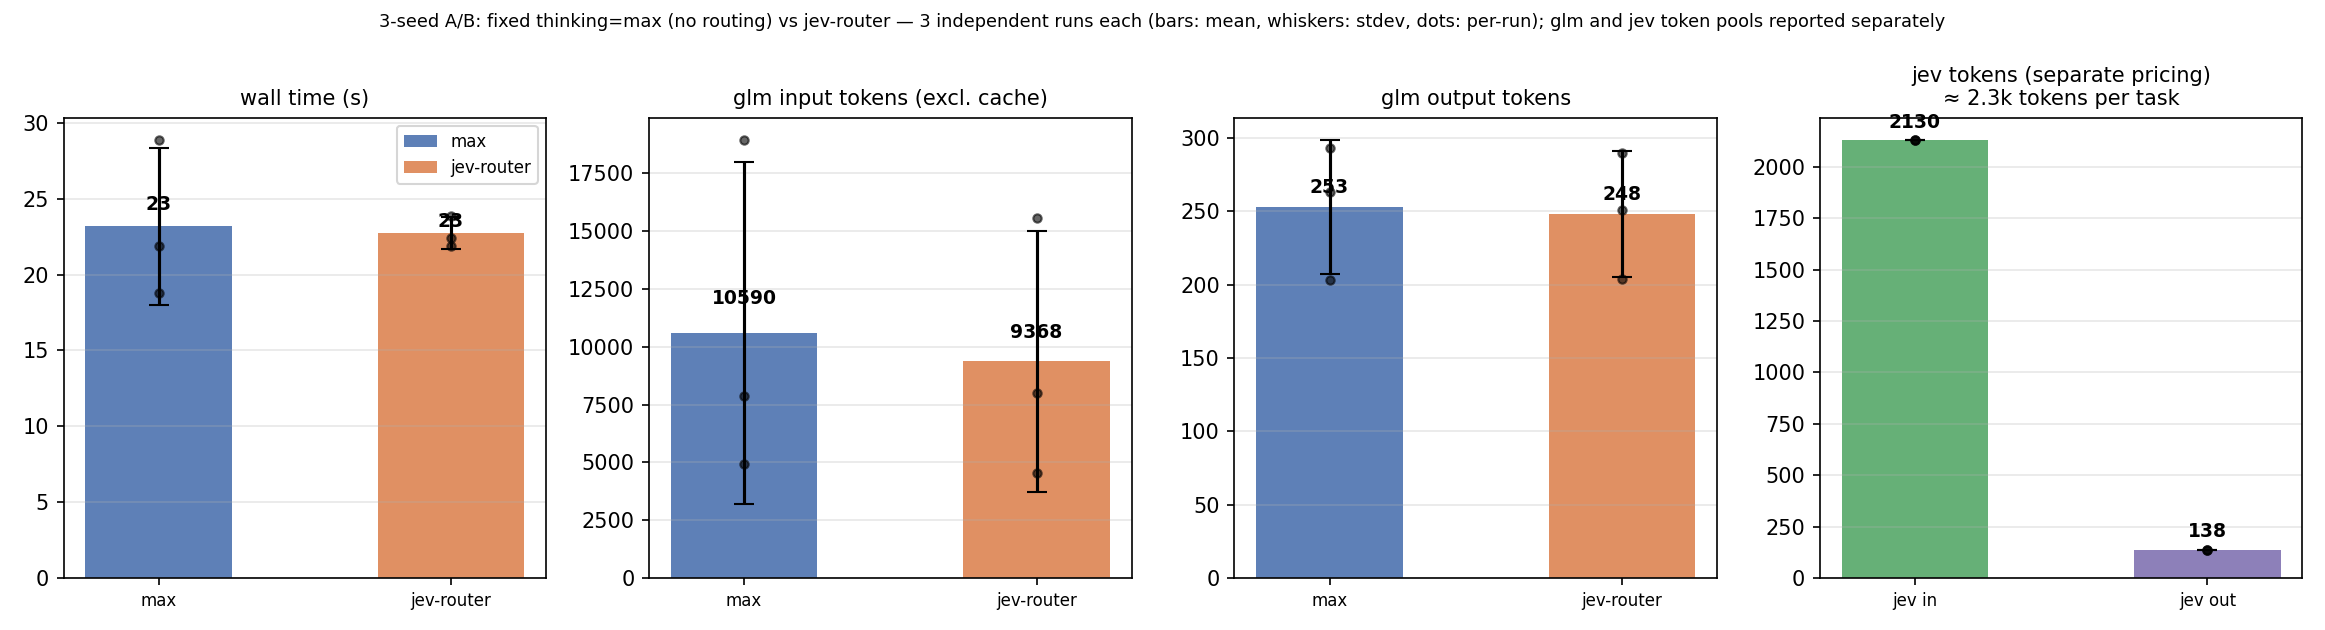
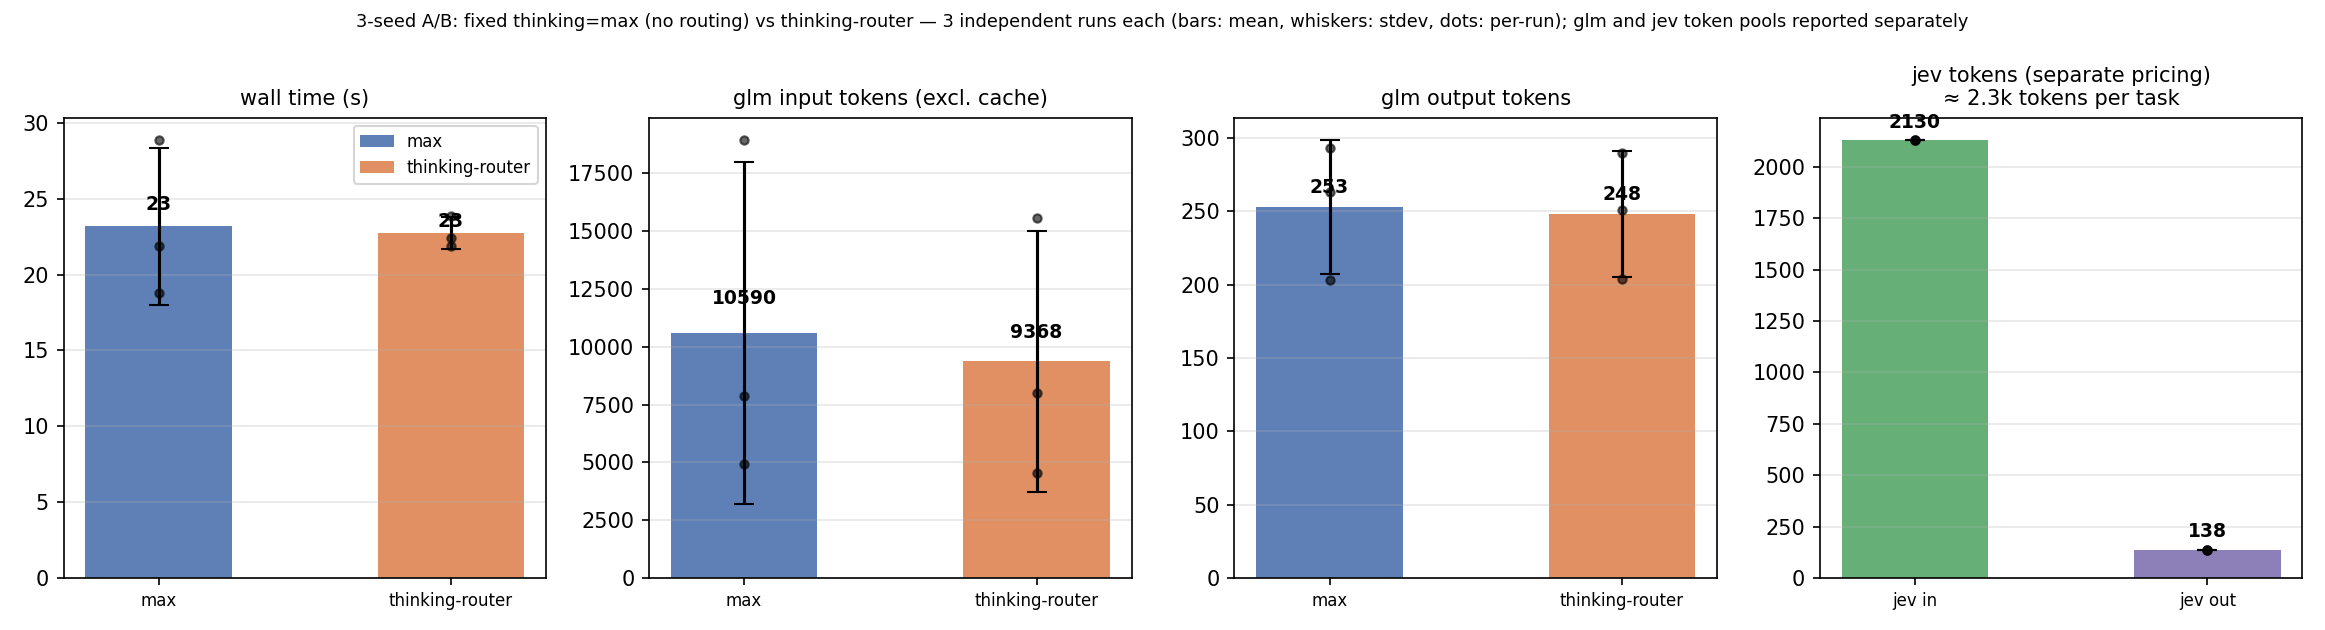
chore: rename slash command to /thinking-router; unify user-facing labels

diff --git a/index.ts b/index.ts
@@ -27,7 +27,7 @@ import { JsonlLogger } from "./src/logger.ts";
 import type { RawToolResult } from "./src/errors.ts";
 import type { RoutedLevel } from "./src/levels.ts";
 
-const COMMAND = "jev-router";
+const COMMAND = "thinking-router";
 
 interface PendingInput {
   command?: string;
@@ -109,13 +109,13 @@ export default function jevRouter(pi: ExtensionAPI) {
     let timer: ReturnType<typeof setTimeout> | undefined;
     const cap = new Promise<void>((resolve) => {
       timer = setTimeout(() => {
-        const msg = `jev-router: ${label} exceeded ${Math.round(ms / 1000)}s — skipped wait so the session can continue`;
+        const msg = `thinking-router: ${label} exceeded ${Math.round(ms / 1000)}s — skipped wait so the session can continue`;
         try {
           currentCtx?.ui.notify(msg, "warning");
         } catch {
           // UI unavailable (print mode).
         }
-        console.error(`[jev-router] ${msg}`);
+        console.error(`[thinking-router] ${msg}`);
         resolve();
       }, ms);
     });
@@ -213,7 +213,7 @@ export default function jevRouter(pi: ExtensionAPI) {
 
   pi.registerCommand(COMMAND, {
     description:
-      "Toggle adaptive thinking-level routing (/jev-router on|off|status|test|set|log)",
+      "Toggle adaptive thinking-level routing (/thinking-router on|off|status|test|set|log)",
     getArgumentCompletions: (prefix: string) => {
       const items = [
         ...SUBS.map((s) => ({ value: s, label: s })),
@@ -224,7 +224,7 @@ export default function jevRouter(pi: ExtensionAPI) {
     handler: async (args, ctx) => {
       currentCtx = ctx;
       if (!cfg || !engine) {
-        ctx.ui.notify("jev-router is still initializing; try again in a moment", "warning");
+        ctx.ui.notify("thinking-router is still initializing; try again in a moment", "warning");
         return;
       }
       const parts = args.trim().split(/\s+/).filter(Boolean);
@@ -236,8 +236,8 @@ export default function jevRouter(pi: ExtensionAPI) {
         updateStatus(ctx);
         ctx.ui.notify(
           cfg.enabled
-            ? `jev-router ENABLED (jev: ${jevConfigured(cfg) ? `${cfg.model}` : "not configured, local rules"})`
-            : "jev-router DISABLED (thinking level stays under your control)",
+            ? `thinking-router ENABLED (jev: ${jevConfigured(cfg) ? `${cfg.model}` : "not configured, local rules"})`
+            : "thinking-router DISABLED (thinking level stays under your control)",
           "info",
         );
         return;
@@ -247,7 +247,7 @@ export default function jevRouter(pi: ExtensionAPI) {
         const s = engine.status();
         ctx.ui.notify(
           [
-            `jev-router status`,
+            `thinking-router status`,
             `  enabled: ${s.enabled} | active: ${s.active} | manual override: ${s.manualOverride}`,
             `  model supports reasoning: ${s.reasoningModel} | jev configured: ${s.jevConfigured}`,
             `  endpoint: ${cfg.endpoint || "(not set)"} | model: ${cfg.model || "(not set)"}`,
@@ -265,7 +265,7 @@ export default function jevRouter(pi: ExtensionAPI) {
       if (sub === "test") {
         if (!jevConfigured(cfg)) {
           ctx.ui.notify(
-            `Jev is not configured. Set endpoint/model via /jev-router set endpoint <url>, /jev-router set model <id>, or JEV_ENDPOINT/JEV_MODEL env vars.`,
+            `Jev is not configured. Set endpoint/model via /thinking-router set endpoint <url>, /thinking-router set model <id>, or JEV_ENDPOINT/JEV_MODEL env vars.`,
             "warning",
           );
           return;
@@ -309,7 +309,7 @@ export default function jevRouter(pi: ExtensionAPI) {
           engine = buildEngine(cfg, logger);
         }
         updateStatus(ctx);
-        ctx.ui.notify(`jev-router ${key} = ${String(coerced.value)}`, "info");
+        ctx.ui.notify(`thinking-router ${key} = ${String(coerced.value)}`, "info");
         return;
       }
 
@@ -346,7 +346,7 @@ export default function jevRouter(pi: ExtensionAPI) {
       // help
       ctx.ui.notify(
         [
-          "jev-router commands:",
+          "thinking-router commands:",
           `  /${COMMAND}              toggle automatic routing`,
           `  /${COMMAND} on|off       explicit toggle`,
           `  /${COMMAND} status       configuration + live routing state`,

diff --git a/scripts/benchmark.ts b/scripts/benchmark.ts
@@ -1,5 +1,5 @@
 /**
- * 3-seed A/B benchmark: fixed thinking level (max, no routing) vs jev-router.
+ * 3-seed A/B benchmark: fixed thinking level (max, no routing) vs thinking-router.
  *
  *   node scripts/benchmark.ts [--seeds 3]
  *
@@ -211,7 +211,7 @@ async function main(): Promise<number> {
   const seeds = seedsArg ? Number(seedsArg.split("=")[1] ?? process.argv[process.argv.indexOf(seedsArg) + 1]) : 3;
   const n = Number.isFinite(seeds) && seeds > 0 ? Math.floor(seeds) : 3;
 
-  console.log(`3-seed A/B: max vs jev-router — ${n} interleaved seeds per arm`);
+  console.log(`3-seed A/B: max vs thinking-router — ${n} interleaved seeds per arm`);
   console.log(`task: fail-then-fix (calc.js integer division), fresh dir per run\n`);
 
   const results: RunResult[] = [];

diff --git a/scripts/charts.py b/scripts/charts.py
@@ -41,7 +41,7 @@ MOCK_TURNS = [
     (5, "high", "failure → escalation cap reached"),
 ]
 
-# ---- 3-seed A/B: max (no routing) vs jev-router ----------------------
+# ---- 3-seed A/B: max (no routing) vs thinking-router ----------------------
 # Real runs via scripts/benchmark.ts (pi --mode json, glm-5.3-flash + jev-1.13.0,
 # fail-then-fix task, fresh dir per run, interleaved A/B order).
 # glm tokens (main model) and jev tokens (router, separately priced) are
@@ -50,7 +50,7 @@ AB = {
     "max": {
         "wall": [21.9, 28.9, 18.8], "in": [18962, 4932, 7875], "out": [263, 293, 203],
     },
-    "jev-router": {
+    "thinking-router": {
         "wall": [21.9, 23.9, 22.4], "in": [15561, 7997, 4547], "out": [204, 290, 251],
     },
 }
@@ -154,7 +154,7 @@ def fig_ab():
     labels = list(AB.keys())
     colors = ("#4C72B0", "#DD8452")
     for ax, (key, title) in zip(axes, metrics):
-        for i, cfg in enumerate(("max", "jev-router")):
+        for i, cfg in enumerate(("max", "thinking-router")):
             vals = AB[cfg][key]
             mean = statistics.mean(vals)
             sd = statistics.stdev(vals)
@@ -180,7 +180,7 @@ def fig_ab():
     ax.set_xticklabels(["jev in", "jev out"], fontsize=8)
     ax.set_title("jev tokens (separate pricing)\n≈ 2.3k tokens per task", fontsize=10)
     ax.grid(axis="y", alpha=0.3)
-    fig.suptitle("3-seed A/B: fixed thinking=max (no routing) vs jev-router — 3 independent runs each (bars: mean, whiskers: stdev, dots: per-run); glm and jev token pools reported separately", fontsize=8.5)
+    fig.suptitle("3-seed A/B: fixed thinking=max (no routing) vs thinking-router — 3 independent runs each (bars: mean, whiskers: stdev, dots: per-run); glm and jev token pools reported separately", fontsize=8.5)
     fig.tight_layout()
     fig.savefig(os.path.join(OUT, "ab-3seed.png"), dpi=150)
     plt.close(fig)

diff --git a/README.md b/README.md
@@ -26,7 +26,7 @@ flowchart TB
     USER["用户任务"] --> BAS["before_agent_start<br/>任务起点"]
     subgraph PI["pi coding agent"]
         LOOP["agent loop<br/>(模型 + 工具循环)"]
-        subgraph EXT["jev-router 扩展"]
+        subgraph EXT["thinking-router 扩展"]
             STATE["AgentState<br/>tool_calls · failures · tests<br/>changed_files · recent_error"]
             TRIG["触发器<br/>task-start / failure /<br/>downgrade-check"]
             POL["policy 防抖钳制<br/>+1/-1 步 · 上限 · 冷却<br/>手动覆盖 · 稳定窗口"]
@@ -83,7 +83,7 @@ flowchart TB
 pi -e ./index.ts
 ```
 
-配置文件 `~/.pi/jev-router.json`（也可用 `/jev-router set <key> <value>`）：
+配置文件 `~/.pi/thinking-router.json`（也可用 `/thinking-router set <key> <value>`）：
 
 ```json
 {
@@ -98,7 +98,7 @@ pi -e ./index.ts
   "downgradeStableTurns": 2,
   "pinTurns": 1,
   "logEnabled": true,
-  "logFile": "~/.pi/jev-router/decisions.jsonl"
+  "logFile": "~/.pi/thinking-router/decisions.jsonl"
 }
 ```
 
@@ -108,11 +108,11 @@ API key 解析顺序：`config.apiKey` → `JEV_API_KEY` 环境变量 → cc-swi
 ### 命令
 
 ```
-/jev-router            # 开关自动路由（写入配置，重启会话保留）
-/jev-router status     # 当前状态：档位来源 / 计数 / 日志路径
-/jev-router test       # 连通性测试（真实问一次 Jev）
-/jev-router set k v    # 改配置
-/jev-router log        # 最近 5 条决策
+/thinking-router            # 开关自动路由（写入配置，重启会话保留）
+/thinking-router status     # 当前状态：档位来源 / 计数 / 日志路径
+/thinking-router test       # 连通性测试（真实问一次 Jev）
+/thinking-router set k v    # 改配置
+/thinking-router log        # 最近 5 条决策
 ```
 
 状态栏徽标：`jev:medium`（Jev 主导）/ `jev:medium(rules)`（本地规则）/ `jev:medium(fallback)`（Jev 失败兜底）/ `jev:medium(manual)`（用户接管）。
@@ -195,7 +195,7 @@ JEV_ENDPOINT=... JEV_MODEL=jev-latest node scripts/jev-ping.ts
 pi -e ./index.ts --no-session -p "<任务>"
 ```
 
-三个真实任务（决策日志 `~/.pi/jev-router/decisions.jsonl`）：
+三个真实任务（决策日志 `~/.pi/thinking-router/decisions.jsonl`）：
 
 | 任务 | task-start 决策 | 后续触发 | 结果 |
 |---|---|---|---|
@@ -209,15 +209,15 @@ pi -e ./index.ts --no-session -p "<任务>"
 
 **§6.4 的副产品：一个真实 bug。** 第一次 E2E 调试运行中，turn 0 的测试失败被 task-start 调用留下的 15s 冷却窗口**静默吞掉**（18.5s 的短任务整个落在窗口内）。修复方式是"新鲜失败旁路"：只要存在上次 Jev 调用未见过的推理失败，失败触发就绕过冷却。该回归场景已固化进集成测试（§6.1 第一条 ✔）。第二次 E2E 运行确认修复生效。
 
-### 6.5 3-seed A/B：固定 thinking=max（不切换）vs jev-router
+### 6.5 3-seed A/B：固定 thinking=max（不切换）vs thinking-router
 
-用 `scripts/benchmark.ts` 跑了真实 A/B 对比：同一“先跑失败测试、再修复”任务，A 臂**不加载扩展、档位恒为 max**（`pi --mode json --thinking max`），B 臂加载 jev-router 自动选档；每臂 3 次独立重复，A/B 交替执行以解耦时间漂移，每次运行使用全新临时目录。
+用 `scripts/benchmark.ts` 跑了真实 A/B 对比：同一“先跑失败测试、再修复”任务，A 臂**不加载扩展、档位恒为 max**（`pi --mode json --thinking max`），B 臂加载 thinking-router 自动选档；每臂 3 次独立重复，A/B 交替执行以解耦时间漂移，每次运行使用全新临时目录。
 
 **计费口径说明**：主模型（glm）与 jev 是两个不同价格的模型，token **分开统计、分开呈现，永不混合**。glm token 来自 pi 的 `message_end.usage` 事件；jev token 来自决策日志的 `jev_input_tokens/jev_output_tokens` 字段（jev 协议响应自带的 usage）。换算成钱请分别套用各自单价。
 
 ![3-seed A/B](assets/ab-3seed.png)
 
-| 指标（mean ± stdev，n=3） | max | jev-router | Δ |
+| 指标（mean ± stdev，n=3） | max | thinking-router | Δ |
 |---|---|---|---|
 | wall 时间 | 23.2 ± 5.2 s | 22.7 ± 1.0 s | −2%（持平；路由臂方差更小） |
 | **glm** input tokens（不含缓存） | 10590 ± 7398 | 9368 ± 5633 | −11.5%（方向性） |
@@ -260,7 +260,7 @@ pi -e ./index.ts --no-session -p "<任务>"
 
 ```
 pi-thinking-router-jev/
-├── index.ts            # pi 扩展入口：事件接线 + /jev-router 命令
+├── index.ts            # pi 扩展入口：事件接线 + /thinking-router 命令
 ├── src/
 │   ├── engine.ts       # 决策编排（可测试核心）
 │   ├── policy.ts       # 本地规则引擎 + 防抖钳制
@@ -274,11 +274,11 @@ pi-thinking-router-jev/
 │   └── README.md       # 测试设计文档（各层覆盖、对抗样本、回归用例）
 ├── scripts/
 │   ├── jev-ping.ts     # 连通性双探针
-│   ├── benchmark.ts    # 3-seed A/B 基准（max vs jev-router）
+│   ├── benchmark.ts    # 3-seed A/B 基准（max vs thinking-router）
 │   └── charts.py       # 本 README 全部图表（可复现）
 └── assets/             # 生成的 PNG
 ```
 
 ---
 
-*实验环境：pi 0.86.1 · glm-5.3-flash · jev-1.13.0 · Node 24 · Windows。数据来自本仓库测试与 `~/.pi/jev-router/decisions.jsonl` 真实运行记录；图表由 `python scripts/charts.py` 从转写数据生成。*
+*实验环境：pi 0.86.1 · glm-5.3-flash · jev-1.13.0 · Node 24 · Windows。数据来自本仓库测试与 `~/.pi/thinking-router/decisions.jsonl` 真实运行记录；图表由 `python scripts/charts.py` 从转写数据生成。*

diff --git a/test/README.md b/test/README.md
@@ -97,7 +97,7 @@ task-start(medium) → 失败(high) → 干净轮(不动) → 干净轮(降级 m
 | 未配置 endpoint | 每会话一次 warning；纯规则路由；第二次任务不重复告警 |
 | 仅有环境型失败 | 不调 Jev、不升级、一次 warning |
 | 非推理模型 | 路由器整体不激活 |
-| `enabled: false`（/jev-router off） | 零决策、零调用 |
+| `enabled: false`（/thinking-router off） | 零决策、零调用 |
 | 冷却窗口内出现新鲜失败 | **仍然升级**（真实 E2E 发现的吞升级 bug 的回归） |
 
 ### 2.4 数据完整性
